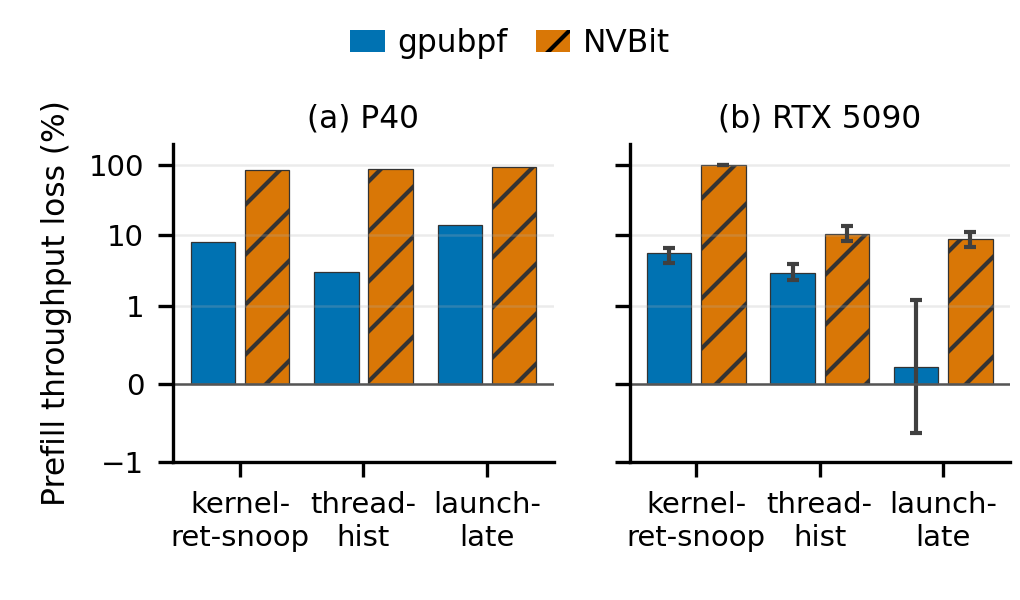
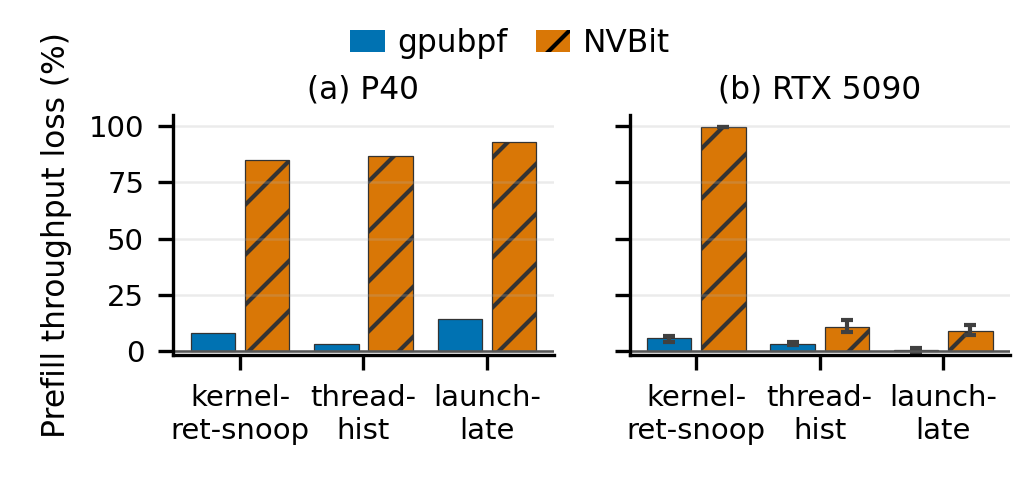
paper: clarify prior policy mechanisms and use compact linear overhead plot

diff --git a/tex-revision/eval.tex b/tex-revision/eval.tex
@@ -333,36 +333,36 @@ We evaluate whether \sys{} can express the policies of published state-of-the-ar
 
 \begin{table*}[t]
 \centering
-\caption{Published policies and their implementation through \sys{}, in the order of \Cref{fig:matched-ports}(a--g).}
-% 已发表策略及其通过 \sys{} 实现的方式，顺序对应 \Cref{fig:matched-ports}(a--g)。
+\caption{Prior policies, their underlying mechanisms, and the \sys{} implementations evaluated in \Cref{fig:matched-ports}(a--g).}
+% 既有策略、其底层机制以及 \Cref{fig:matched-ports}(a--g) 中评估的 \sys{} 实现。
 \label{tab:published-policies}
 \small
 \setlength{\tabcolsep}{4pt}
 \begin{tabularx}{\textwidth}{@{} >{\hsize=0.5\hsize\raggedright\arraybackslash}X >{\hsize=0.9\hsize\raggedright\arraybackslash}X >{\hsize=1.6\hsize\raggedright\arraybackslash}X @{}}
 \toprule
-System & Original policy & Execution location and \sys{} implementation \\
-% 系统；原有策略；执行位置与 gpubpf 实现。
+System & Original policy & Original mechanism and \sys{} implementation \\
+% 系统；原有策略；原有机制与 gpubpf 实现。
 \midrule
-MoE-Infinity~\cite{xue2025moeinfinity} & Match access predictions, rank expert prefetches, and select eviction victims. & Native user-space cache decisions become host-side \sys{} programs; the shared GPT-OSS-120B executor handles expert transfers and inference. \\
-% MoE-Infinity：匹配访问预测、排列专家预取顺序并选择驱逐对象；用户态原生缓存决策由主机侧 gpubpf 程序实现，共用的 GPT-OSS-120B 执行器负责专家传输与推理。
+MoE-Infinity~\cite{xue2025moeinfinity} & Match access predictions, rank expert prefetches, and select eviction victims. & A user-space runtime manages expert transfers; \sys{} implements cache decisions as host-side programs on the shared GPT-OSS-120B executor. \\
+% MoE-Infinity：匹配访问预测、排列专家预取顺序并选择驱逐对象；用户态运行时管理专家传输，gpubpf 通过主机侧程序在共用 GPT-OSS-120B 执行器上实现缓存决策。
 \addlinespace
-Expert Buffering~\cite{huang2023towards} & Admit experts to the cache and prioritize eviction of experts unused by the current batch. & Native user-space admission and eviction become host-side \sys{} decisions, applied by the shared cache executor. \\
-% Expert Buffering：决定专家缓存准入，优先驱逐当前批次不用的专家；用户态原生准入与驱逐决策由主机侧 gpubpf 程序实现，并由共用缓存执行器执行。
+Expert Buffering~\cite{huang2023towards} & Admit experts to the cache and prioritize eviction of experts unused by the current batch. & A user-space cache manages GPU buffers and CPU-to-GPU copies; \sys{} implements admission and eviction as host-side programs on the shared cache executor. \\
+% Expert Buffering：决定专家缓存准入，优先驱逐当前批次不用的专家；用户态缓存管理 GPU 缓冲区和 CPU 到 GPU 的复制，gpubpf 通过主机侧程序在共用缓存执行器上实现准入与驱逐。
 \addlinespace
-FineMoE~\cite{yu2026finemoe} & Select a dynamic set of experts for speculative prefetch. & Native user-space expert selection becomes a host-side \sys{} program; the shared inference executor performs transfers and computation. \\
-% FineMoE：动态选择推测预取的专家集合；用户态原生专家选择由主机侧 gpubpf 程序实现，共用推理执行器完成传输与计算。
+FineMoE~\cite{yu2026finemoe} & Select a dynamic set of experts for speculative prefetch. & A user-space cache uses CUDA runtime transfers; \sys{} implements dynamic expert selection as a host-side program on the shared inference executor. \\
+% FineMoE：动态选择推测预取的专家集合；用户态缓存通过 CUDA runtime 传输数据，gpubpf 通过主机侧程序在共用推理执行器上实现动态专家选择。
 \addlinespace
-Hummingbird~\cite{hu2026hummingbird} & Admit background work during foreground idle intervals. & Native user-space admission becomes a host-side \sys{} program; the shared DNN executor submits the admitted work. \\
-% Hummingbird：在前台空闲区间准入后台工作；用户态原生准入决策由主机侧 gpubpf 程序实现，共用 DNN 执行器提交获准的工作。
+Hummingbird~\cite{hu2026hummingbird} & Split background kernels to fill foreground idle intervals, with priority-aware memory management. & CUDA API interception and kernel splitting handle execution, while memory management modifies UVM; our host-side \sys{} port implements idle admission on the shared DNN executor. \\
+% Hummingbird：拆分后台 GPU 内核以填充前台空闲区间，并按优先级管理内存；CUDA API 拦截与内核拆分负责执行，内存管理修改 UVM，我们的主机侧 gpubpf 移植在共用 DNN 执行器上实现空闲准入。
 \addlinespace
 POD-Attention~\cite{kamath2025pod} & Proportionally select prefill or decode work for each SM. & Native selection inside the GPU kernel becomes a device-side \sys{} program; the fused attention kernel executes the selected work. \\
 % POD-Attention：按比例为各 SM 选择 prefill 或 decode 工作；GPU 内核中的原生选择逻辑由设备侧 gpubpf 程序实现，融合注意力内核执行所选工作。
 \addlinespace
-XSched~\cite{shen2025xsched} & Select the highest-priority task using inter-kernel preemption. & Native user-space task selection becomes a host-side \sys{} program; the original executor provides inter-kernel suspend/resume. \\
-% XSched：利用内核间抢占选择最高优先级任务；用户态原生任务选择由主机侧 gpubpf 程序实现，原始执行器提供内核间挂起与恢复。
+XSched~\cite{shen2025xsched} & Select the highest-priority task through preemptible command queues. & A user-space scheduler uses queue control and, at higher preemption levels, GPU instrumentation or driver interfaces; our host-side \sys{} port retains the original inter-kernel executor. \\
+% XSched：通过可抢占命令队列选择最高优先级任务；用户态调度器控制队列，较高抢占级别还使用 GPU 插桩或驱动接口，我们的主机侧 gpubpf 移植保留原始内核间抢占执行器。
 \addlinespace
-GPREEMPT~\cite{fan2025gpreempt} & Control task admission and assign timeslices by priority. & Native user-space blocking/release and driver timeslicing become host- and driver-side \sys{} decisions, applied by the original executor and GPU driver. \\
-% GPREEMPT：控制任务准入并按优先级分配时间片；用户态原生阻塞与释放决策以及驱动时间片决策，分别由主机侧和驱动侧 gpubpf 程序实现，原始执行器和 GPU 驱动负责执行。
+GPREEMPT~\cite{fan2025gpreempt} & Control task admission and assign timeslices by priority. & User-space blocking/release relies on a modified GPU driver for timeslices; \sys{} implements these decisions with host- and driver-side programs on the same executor. \\
+% GPREEMPT：控制任务准入并按优先级分配时间片；用户态阻塞与释放依赖修改后的 GPU 驱动控制时间片，gpubpf 通过主机侧和驱动侧程序在相同执行器上实现这些决策。
 \bottomrule
 \end{tabularx}
 \end{table*}
@@ -449,8 +449,8 @@ Attaching to a running process requires no application restart.
 \begin{figure}[t]
 \centering
 \includegraphics[width=\columnwidth]{tex-revision/img/results-raw/revision/obs-overhead-with-array.pdf}
-\caption{Prefill throughput loss relative to an uninstrumented baseline. (a) P40, Llama 1B. (b) RTX~5090, TinyLlama-1.1B: ten baseline/tool pairs per configuration, except \sys kernelretsnoop (five independent pairs). Bars show means and whiskers show RTX~5090 run ranges; P40 uses original reported values. The axis is linear within $\pm1\%$ and logarithmic beyond. For \sys kernelretsnoop, records are collected after prefill (10.38\,ms, outside prefill timing).}
-% 相对未插桩基线的预填充吞吐下降。(a) P40，Llama 1B。(b) RTX~5090，TinyLlama-1.1B：每个配置十组基线/工具配对，gpubpf kernelretsnoop 使用另外独立测量的五组配对。柱形为均值，须线为 RTX~5090 的运行范围；P40 使用原文报告值。坐标轴在 ±1\% 内为线性，之外为对数。gpubpf kernelretsnoop 在预填充后收集记录（10.38 ms，不计入预填充计时）。
+\caption{Prefill throughput loss relative to an uninstrumented baseline. (a) P40, Llama 1B. (b) RTX~5090, TinyLlama-1.1B: ten baseline/tool pairs per configuration, except \sys kernelretsnoop (five independent pairs). Bars show means and whiskers show RTX~5090 run ranges; P40 uses original reported values. For \sys kernelretsnoop, records are collected after prefill (10.38\,ms, outside prefill timing).}
+% 相对未插桩基线的预填充吞吐下降。(a) P40，Llama 1B。(b) RTX~5090，TinyLlama-1.1B：每个配置十组基线/工具配对，gpubpf kernelretsnoop 使用另外独立测量的五组配对。柱形为均值，须线为 RTX~5090 的运行范围；P40 使用原文报告值。gpubpf kernelretsnoop 在预填充后收集记录（10.38 ms，不计入预填充计时）。
 \label{fig:obs-overhead}
 \end{figure}
 

diff --git a/tex-revision/img/results-raw/revision/plot_obs_with_array.py b/tex-revision/img/results-raw/revision/plot_obs_with_array.py
@@ -6,7 +6,7 @@ P40 uses the submitted values. RTX 5090 uses the original ten paired blocks
 per tool, with gpubpf kernelretsnoop taken from the five independent
 GPU-buffer pairs. The earlier kernelretsnoop measurements stay in the data. Bars
 show means, and RTX 5090 whiskers show the complete observed range.
-The symlog axis includes zero and the negative launchlate range.
+The linear axis includes zero and the negative launchlate range.
 All measurements are prefill throughput loss relative to the baseline
 from the same campaign.
 
@@ -130,8 +130,8 @@ def build_data(p40: dict, old: dict, new: dict) -> dict:
         "schema": "obs_overhead_with_array_v1",
         "metric": "prefill throughput loss, percent of the same-campaign "
                   "baseline throughput (lower is better)",
-        "plot_note": "grouped mean bars with full-range whiskers; symlog axis "
-                     "linear between -1 and +1 retains the negative launchlate range",
+        "plot_note": "grouped mean bars with full-range whiskers; linear axis "
+                     "retains the negative launchlate range",
         "display_selection": {
             "rtx5090_gpubpf_kernelretsnoop": "rtx5090_gpu_array",
             "other_rtx5090_arms": "rtx5090_table1",
@@ -209,7 +209,7 @@ def _draw(data: dict, paths: list[Path]) -> None:
                           "xtick.labelsize": 7, "ytick.labelsize": 7,
                           "legend.fontsize": 7.5})
     with plt.rc_context(style):
-        figure, axes = plt.subplots(1, 2, figsize=(3.4, 2.0), sharey=True)
+        figure, axes = plt.subplots(1, 2, figsize=(3.4, 1.6), sharey=True)
         for column, axis in enumerate(axes):
             for index, tool in enumerate(TOOLS):
                 for system, offset in zip(SYSTEMS, (-.22, .22)):
@@ -226,9 +226,9 @@ def _draw(data: dict, paths: list[Path]) -> None:
                         high = campaign["max_overhead_pct"][arm]
                         axis.errorbar(center, mean, yerr=[[mean-low], [high-mean]],
                                       fmt="none", color=GRAY, capsize=1.5, linewidth=1)
-            axis.set_yscale("symlog", linthresh=1)
-            axis.set_ylim(-1, 200)
-            axis.set_yticks([-1, 0, 1, 10, 100], ["−1", "0", "1", "10", "100"])
+            axis.set_yscale("linear")
+            axis.set_ylim(-2, 105)
+            axis.set_yticks([0, 25, 50, 75, 100])
             axis.set_xticks(range(3), ["kernel-\nret-snoop", "thread-\nhist", "launch-\nlate"])
             axis.set_title(("(a) P40", "(b) RTX 5090")[column], fontsize=7.5, pad=4)
             axis.grid(axis="y", alpha=.25, linewidth=.6)
@@ -239,7 +239,7 @@ def _draw(data: dict, paths: list[Path]) -> None:
         figure.legend(handles=handles, loc="upper center", ncol=2, frameon=False,
                       bbox_to_anchor=(.5, 1.0), handlelength=1.1,
                       handletextpad=.4, columnspacing=.9)
-        figure.subplots_adjust(left=.17, right=.99, bottom=.23, top=.76, wspace=.20)
+        figure.subplots_adjust(left=.17, right=.99, bottom=.26, top=.76, wspace=.20)
         try:
             for path in paths:
                 figure.savefig(path, dpi=300)
